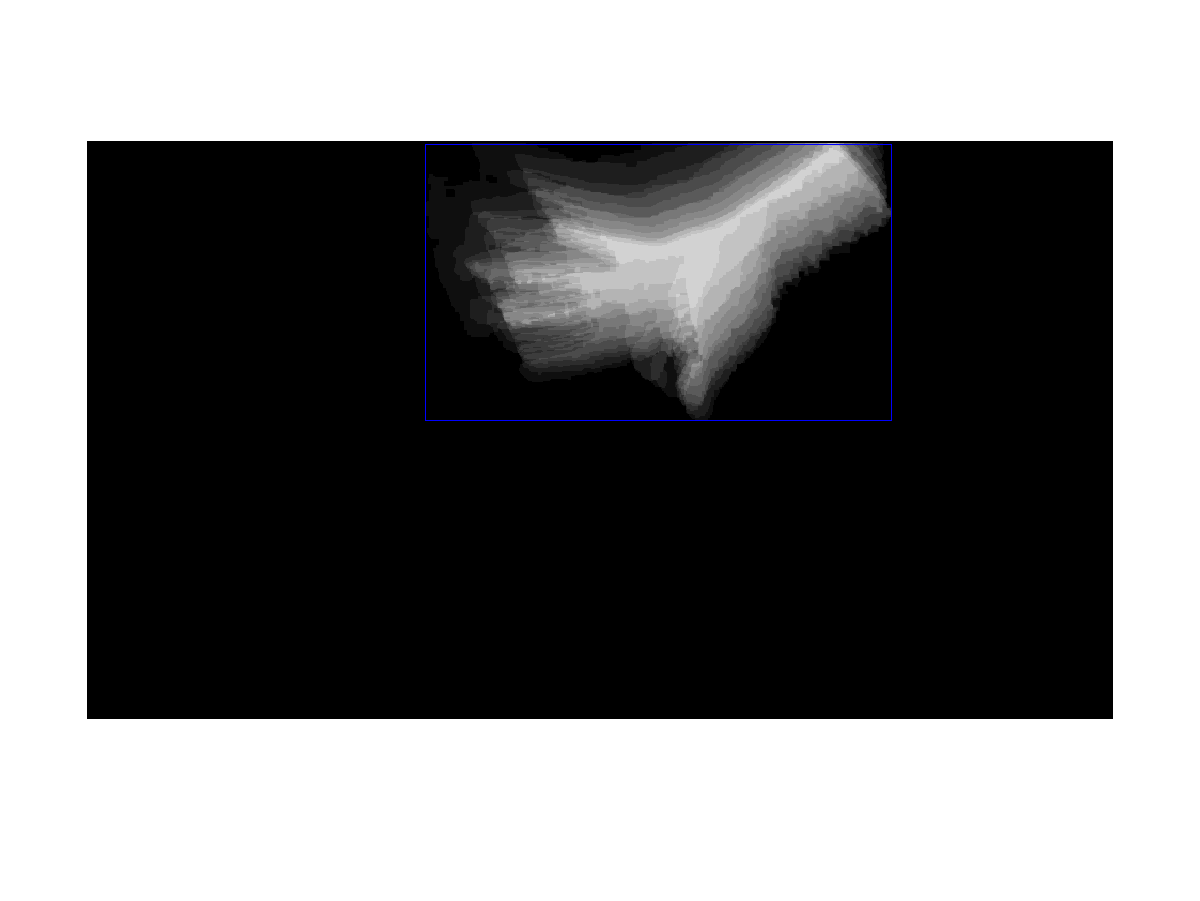
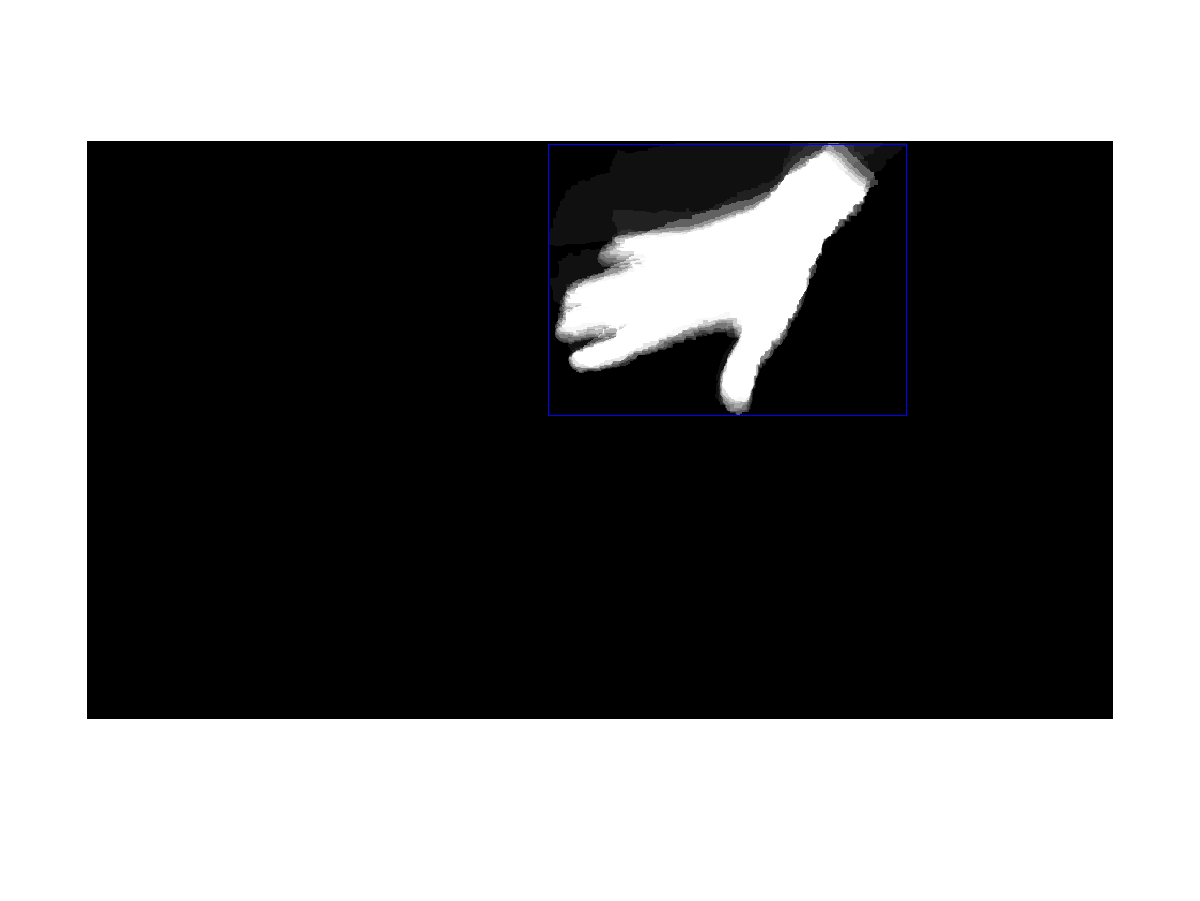
MHI sorted

Changed region(s): [[0.37, 0.1554, 0.74, 0.4661]]

diff --git a/motionHistoryImage.m b/motionHistoryImage.m
@@ -1,26 +1,110 @@
-function [motionHistory] = motionHistoryImage(binaries)
+% Creates a motion history image in 1 of 4 forms
+%
+%   1.  Last image is brightest
+%   2.  Last image is brightest max value is 1 (means it shows up in image)
+%   3.  Images are all averaged
+%   4.  Normal distribution over images that are used normalised so max value is 1
+%   5.  Normal distribution over all images using only certain ones normalised so max value is 1
+%
+% First 3 and last 3 images may be cut if there is no overlap with next or previous images.
+% This is in part to keep out noise and also because these images are less likely to be
+% important to the sequence as we go forwards.
+%
 
-	num = size(binaries);
-	avg = double(binaries(:,:,1));
+function [mhi] = mhiImage(binaries, form)
 
-    total = num(3);
+    if nargin == 1
+        form = 1;
+    end
 
-    fail = 0;
-    failEnd = 0;
+    num = size(binaries);
+    
+    if (form == 1) | (form == 2);
+        mhi = double(binaries(:,:,1))/num(3);
+        i = 1
+        figure(i)
+        imshow(mhi)
 
-	for i = 2:num(3)
-	    if ((i <= 4) & ~sum(sum(avg & binaries(:,:,i))))
-    	    avg = double(binaries(:,:,i));
-    	    total = total-(i-1-fail);
-    	    fail = i-1;
-        elseif ((i >= num-2) & sum(sum(avg & binaries(:,:,i))))
-       		avg = avg + double(binaries(:,:,i));
-        elseif ((i >= num-2) & ~sum(sum(avg & binaries(:,:,i))))
-            total = total - (num(3)-i+1);
-            break;
-        elseif (i < num-2);
-       		avg = avg + double(binaries(:,:,i));
+        total = num(3);
+
+        fail = 0;
+        failEnd = 0;
+
+
+        for i = 2:num(3)
+            if ((i <= 4) & ~sum(sum(mhi & binaries(:,:,i))))
+                total = total-(i-1-fail);
+                fail = i-1;
+                mhi = double(binaries(:,:,i))/(total);
+            elseif ((i >= num(3)-2) & ~sum(sum(mhi & binaries(:,:,i))))
+                mhi = mhi*(total-i+fail)+2;
+                total = total - (num(3)-i+1);
+                mhi = mhi/total;
+                break;
+            elseif (i < num(3)-2);
+                   mhi = mhi + double(binaries(:,:,i))/(total-(i-fail)+1);
+            end
         end
-	end
+        
+        if(form == 2)
+            mhi = mhi/max(max(mhi));
+        end
 
-	motionHistory = avg/total;
+    elseif form == 3;
+        avg = double(binaries(:,:,1));
+
+        total = num(3);
+
+        fail = 0;
+        failEnd = 0;
+
+        for i = 2:num(3)
+            if ((i <= 4) & ~sum(sum(avg & binaries(:,:,i))))
+                avg = double(binaries(:,:,i));
+                total = total-(i-1-fail);
+                fail = i-1;
+            elseif ((i >= num(3)-2) & ~sum(sum(avg & binaries(:,:,i))))
+                total = total - (num(3)-i+1);
+                break;
+            elseif (i < num(3)-2);
+                   avg = avg + double(binaries(:,:,i));
+            end
+        end
+
+        mhi = avg/total;
+    elseif (form == 4) | (form == 5)
+        first = 1;
+        last = num(3);
+        for i = 2:4
+            if ~sum(sum(binaries(:,:,i) & binaries(:,:,i-1)))
+                first = i;
+            end
+        end
+
+        for i = num(3):-1:num(3)-2;
+            if ~sum(sum(binaries(:,:,i) & binaries(:,:,i-1)))
+                last = i-1;
+            end
+        end
+        
+        if form == 4
+            mi = first;
+            ma = last;
+        else
+            mi = 1;
+            ma = num(3);
+        end
+        
+        mean = (mi+ma)/2;
+        sd = (ma-mi)/4;
+        
+        mhi = double(binaries(:,:,1))/num(3);
+        for i = first:last
+            coeff = gaussValue(mean, sd, i); 
+            mhi = mhi + coeff*double(binaries(:,:,i));
+        end
+
+        mhi = mhi/max(max(mhi));
+
+    end
+    

diff --git a/boundingBoxTest.m b/boundingBoxTest.m
@@ -1,5 +1,8 @@
-function [] = boundingBoxTest(seq, show, backNum, path)
+function [] = boundingBoxTest(seq, show, backNum, path, mhiType)
     
+    if nargin < 5
+        mhiType = 1;
+    end
     if nargin < 4
         path = '~/AV/train/';
     end
@@ -11,7 +14,7 @@ function [] = boundingBoxTest(seq, show, backNum, path)
     end    
     
     binIms = binariseSeq(seq, backNum, path);
-    mhi = motionHistoryImage(binIms);
+    mhi = motionHistoryImage(binIms, mhiType);
     [minX maxX minY maxY] = findHand(mhi);
 
     figure(show)

diff --git a/showAllBoundingBoxesScript.m b/showAllBoundingBoxesScript.m
@@ -7,5 +7,5 @@ seqs = listSeqs(path);
 dim = size(seqs);
 
 for i = 1:dim(1)
-    boundingBoxTest(seqs(i,:), 1, 1, path);
+    boundingBoxTest(seqs(i,:), 1, 1, path, 1);
 end
